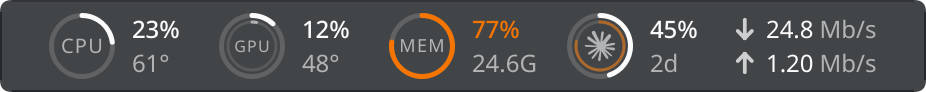
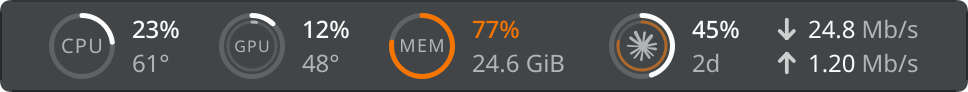
memory: show memory in use to one decimal with its unit
The panel gave memory in use as three figures and a bare unit letter,
"9.60G", which read as clutter next to the popups' "GiB". It now shows one
decimal and the unit in full, "9.6 GiB" or "512.0 MiB", still binary and
still in the unit the popups use. The unit steps up from 999.95 of the one
shown, so no value takes a fourth digit before the point. The memory line
keeps room for the widest value in every unit, so the panel does not change
width as memory moves. Tooltips and popups keep their own formats.

Changed region(s): [[0.0302, 0.1304, 0.9676, 0.8696], [0.7862, 0.5652, 0.9676, 0.8043]]

diff --git a/tests/qml/tst_cells.qml b/tests/qml/tst_cells.qml
@@ -752,10 +752,10 @@ Item {
                 { tag: "cpu no reading", item: "cpu", set: { cpuUsage: NaN, cpuTemperature: NaN }, lines: ["–", "–"], tones: ["text", "dim"] },
                 { tag: "fahrenheit", item: "cpu", set: { fahrenheit: true, cpuTemperature: 38 }, lines: [percent(23), degrees(100)], tones: ["text", "dim"] },
                 { tag: "fahrenheit hot", item: "cpu", set: { fahrenheit: true, cpuTemperature: 95 }, lines: [percent(23), degrees(203)], tones: ["text", "negative"] },
-                { tag: "memory", item: "memory", lines: [percent(42), decimal(13.4) + "G"], tones: ["text", "dim"] },
-                { tag: "memory 77 %", item: "memory", set: { memoryPercent: 77 }, lines: [percent(77), decimal(13.4) + "G"], tones: ["neutral", "dim"] },
-                { tag: "memory in MiB", item: "memory", set: { memoryUsed: 900 * mib, memoryPercent: 3 }, lines: [percent(3), digits(900) + "M"], tones: ["text", "dim"] },
-                { tag: "memory in three figures", item: "memory", set: { memoryUsed: 9.6 * gib, memoryPercent: 60 }, lines: [percent(60), fixed(9.6, 2) + "G"],
+                { tag: "memory", item: "memory", lines: [percent(42), decimal(13.4) + " GiB"], tones: ["text", "dim"] },
+                { tag: "memory 77 %", item: "memory", set: { memoryPercent: 77 }, lines: [percent(77), decimal(13.4) + " GiB"], tones: ["neutral", "dim"] },
+                { tag: "memory in MiB", item: "memory", set: { memoryUsed: 900 * mib, memoryPercent: 3 }, lines: [percent(3), decimal(900) + " MiB"], tones: ["text", "dim"] },
+                { tag: "memory to one decimal", item: "memory", set: { memoryUsed: 9.64 * gib, memoryPercent: 60 }, lines: [percent(60), decimal(9.6) + " GiB"],
                   tones: ["text", "dim"] },
                 { tag: "dual gpu", item: "gpu", lines: [percent(12), degrees(48)], tones: ["text", "dim"], absent: degrees(41) },
                 { tag: "dual gpu hot", item: "gpu", outer: { usage: 90, temperature: 92 }, lines: [percent(90), degrees(92)], tones: ["negative", "negative"] },
@@ -784,7 +784,7 @@ Item {
 
         // The ring's own reading, heavier and in the ring's colour, over a
         // dimmer one in its own heat colour. A countdown keeps to its largest
-        // unit, and memory to three figures.
+        // unit, and memory to one decimal and its unit.
         function test_lines(data) {
             apply(data.item, data);
             const c = cell(data.item);
@@ -806,7 +806,7 @@ Item {
         function test_panelShowsItsHeldReadings_data() {
             return [
                 { tag: "cpu", item: "cpu", ring: 40, texts: [percent(40), degrees(70)], words: "Usage " + percent(40) },
-                { tag: "memory", item: "memory", ring: 60, texts: [percent(60), decimal(20.0) + "G"], words: percent(60) },
+                { tag: "memory", item: "memory", ring: 60, texts: [percent(60), decimal(20.0) + " GiB"], words: percent(60) },
                 { tag: "gpu", item: "gpu", ring: 55, inner: 7, texts: [percent(55), degrees(66)], words: "Usage " + percent(55) },
                 { tag: "network", item: "network", texts: [decimal(64.0), decimal(16.0)], words: "Down " + decimal(64.0) + " Mb/s" },
                 { tag: "disk", item: "disk", texts: [decimal(50.0), fixed(1, 2)], words: "Read " + decimal(50.0) + " MiB/s" }
@@ -870,7 +870,7 @@ Item {
         function test_thinPanelIsOneLine_data() {
             return [
                 { tag: "cpu", item: "cpu", texts: [percent(23), "·", degrees(61)] },
-                { tag: "memory", item: "memory", texts: [percent(42), "·", decimal(13.4) + "G"] },
+                { tag: "memory", item: "memory", texts: [percent(42), "·", decimal(13.4) + " GiB"] },
                 { tag: "claude", item: "claude", texts: [percent(52), "·", digits(2) + "d"] },
                 { tag: "claude last day", item: "claude", week: [52, 5 * 3600 + 12 * 60], texts: [percent(52), "·", digits(5) + "h"] },
                 { tag: "gpu asleep", item: "gpu", asleep: true, texts: ["off"] }
@@ -912,7 +912,7 @@ Item {
         }
 
         // A countdown is plain text in the face of the other second lines,
-        // its largest unit alone, as large as its digits, as in "11.2G" or
+        // its largest unit alone, as large as its digits, as in "11.2 GiB" or
         // "61°", mirrored or not. Its room is that of two of the widest
         // digits and the widest unit, whatever it reads.
         function test_countdownText(data) {
@@ -944,12 +944,12 @@ Item {
                       { set: { cpuUsage: NaN, cpuTemperature: NaN }, shows: ["–"] },
                       { set: { fahrenheit: true, cpuUsage: 100, cpuTemperature: 149 }, shows: ["100%", "300°"] },
                       { set: { fahrenheit: false, cpuUsage: 11, cpuTemperature: 48 }, shows: ["11%", "48°"] }],
-                memory: [{ set: { memoryPercent: 0, memoryUsed: 0 }, shows: ["0%", "0B"] },
-                         { set: { memoryPercent: 1, memoryUsed: 999 * mib }, shows: ["1%", "999M"] },
-                         { set: { memoryPercent: 6, memoryUsed: 1000 * mib }, shows: ["6%", "0.98G"] },
-                         { set: { memoryPercent: 60, memoryUsed: 9.6 * gib }, shows: ["60%", "9.60G"] },
-                         { set: { memoryPercent: 88, memoryUsed: 13.4 * gib }, shows: ["88%", "13.4G"] },
-                         { set: { memoryPercent: 100, memoryUsed: 1023 * gib }, shows: ["100%", "1.00T"] },
+                memory: [{ set: { memoryPercent: 0, memoryUsed: 0 }, shows: ["0%", "0 B"] },
+                         { set: { memoryPercent: 1, memoryUsed: 999 * mib }, shows: ["1%", "999.0 MiB"] },
+                         { set: { memoryPercent: 6, memoryUsed: 1000 * mib }, shows: ["6%", "1.0 GiB"] },
+                         { set: { memoryPercent: 60, memoryUsed: 9.6 * gib }, shows: ["60%", "9.6 GiB"] },
+                         { set: { memoryPercent: 88, memoryUsed: 13.4 * gib }, shows: ["88%", "13.4 GiB"] },
+                         { set: { memoryPercent: 100, memoryUsed: 1023 * gib }, shows: ["100%", "1.0 TiB"] },
                          { set: { memoryPercent: NaN, memoryUsed: NaN }, shows: ["–"] }],
                 gpu: [{ outer: { usage: 0, temperature: 9 }, shows: ["0%", "9°"] },
                       { outer: { usage: 100, temperature: 105 }, shows: ["100%", "105°"] },
@@ -994,7 +994,7 @@ Item {
 
         // A cell keeps one width whatever its readings: each line takes the
         // room of the widest text it can show, "100%" for every ring and
-        // "off" too for the GPU, three figures for memory and the rates, and
+        // "off" too for the GPU, one decimal and a unit for memory, three figures for the rates, and
         // two for a countdown, so no text in it moves or overruns its box
         // from 0 to 100 %, 9 to 105 degrees, an idle link to 1023 GiB/s, a
         // GPU asleep or handing over, or a countdown from 6d to its reset.
@@ -1018,7 +1018,7 @@ Item {
                 const percent = root.percent(100);
                 const firsts = data.item === "gpu" ? [percent, "off"] : [percent];
                 const seconds = data.item === "cpu" || data.item === "gpu" ? [root.degrees(100)]
-                              : data.item === "memory" ? [root.decimal(10) + "M", root.digits(100) + "M"]
+                              : data.item === "memory" ? ["B", "KiB", "MiB", "GiB", "TiB", "PiB"].map(unit => root.decimal(100) + " " + unit)
                               : ["d", "h", "m"].map(unit => root.digits(10) + unit);
                 compare(readout.rooms[0], face.room(face.strong, firsts), "the first line keeps room for " + firsts.join(", "));
                 verify(readout.rooms[1] >= face.room(face.plain, seconds), "the second line keeps room for " + seconds.join(", "));

diff --git a/tests/qml/tst_strip.qml b/tests/qml/tst_strip.qml
@@ -283,24 +283,24 @@ Item {
                     monitor.gpuOuter.usage = 0; monitor.gpuOuter.temperature = 9;
                     monitor.networkDown = 0; monitor.networkUp = 0; monitor.diskRead = 0; monitor.diskWrite = 0;
                     setWeeks([0, 6 * 86400 + 23 * 3600], [0, 6 * 86400 + 20 * 3600]);
-                }, shows: ["0%", "9°", "0B", "0.00", "6d"] },
+                }, shows: ["0%", "9°", "0 B", "0.00", "6d"] },
                 { what: "all at their most", change: () => {
                     monitor.cpuUsage = 100; monitor.cpuTemperature = 105; monitor.memoryUsed = 1023 * gib; monitor.memoryPercent = 100;
                     monitor.gpuOuter.usage = 100; monitor.gpuOuter.temperature = 105;
                     monitor.networkDown = 1023 * gib; monitor.networkUp = 1023 * gib; monitor.diskRead = 1023 * gib; monitor.diskWrite = 1023 * gib;
                     setWeeks([100, 59 * 60], [100, 5 * 60]);
-                }, shows: ["100%", "105°", "1.00T", "TiB/s", "59m", "5m"] },
+                }, shows: ["100%", "105°", "1.0 TiB", "TiB/s", "59m", "5m"] },
                 { what: "302 °F", change: () => { monitor.fahrenheit = true; monitor.cpuTemperature = 149.9; }, shows: ["302°"] },
                 { what: "unit edges", change: () => {
                     monitor.fahrenheit = false; monitor.cpuTemperature = 61; monitor.memoryUsed = 1000 * mib; monitor.memoryPercent = 6;
                     monitor.networkDown = 999.4e3 / 8; monitor.networkUp = 999.5e3 / 8; monitor.diskRead = 999.4 * 1024; monitor.diskWrite = 1023 * 1024;
                     setWeeks([88, 23 * 3600 + 59 * 60], [41, 86400 + 7 * 3600]);
-                }, shows: ["0.98G", "999", "1.00", "23h", "1d"] },
+                }, shows: ["1.0 GiB", "999", "1.00", "23h", "1d"] },
                 { what: "usual", change: () => {
                     monitor.cpuUsage = 12; monitor.memoryUsed = 9.6 * gib; monitor.memoryPercent = 60;
                     monitor.gpuOuter.usage = 4; monitor.gpuOuter.temperature = 46;
                     monitor.networkDown = 8.4e6 / 8; monitor.networkUp = 100e3 / 8; monitor.diskRead = 4.1 * 1024; monitor.diskWrite = 353 * 1024;
-                }, shows: ["12%", "9.60G", "4%", "4.10", "353"] },
+                }, shows: ["12%", "9.6 GiB", "4%", "4.10", "353"] },
                 { what: "the discrete GPU asleep", change: () => { monitor.gpuOuter.phase = "asleep"; }, shows: ["3%", "41°"] },
                 { what: "both GPUs asleep", change: () => { monitor.gpuInner.phase = "asleep"; }, shows: ["off"] },
                 { what: "the GPUs awake", change: () => { monitor.gpuOuter.phase = "live"; monitor.gpuInner.phase = "live"; }, shows: ["4%", "46°"] },
@@ -823,7 +823,7 @@ Item {
                 });
             }
             compare([line(0, "first").text, line(0, "second").text], ["23%", "61°"]);
-            compare([line(2, "first").text, line(2, "second").text], ["42%", "13.4G"]);
+            compare([line(2, "first").text, line(2, "second").text], ["42%", "13.4 GiB"]);
             const texts = visibleTexts(strip);
             verify(!texts.includes("%") && !texts.includes("°"), JSON.stringify(texts));
         }

diff --git a/tests/qml/tst_format.qml b/tests/qml/tst_format.qml
@@ -240,25 +240,30 @@ TestCase {
         verify(Format.panelRateUnits(data.bits).includes(result.unit), result.unit + " is one of the units the panel keeps room for");
     }
 
-    // Memory for the panel steps its unit as the rates do, in three figures.
+    // Memory for the panel is one decimal, its unit stepping at 999.95.
     function test_panelBytes_data() {
         const mib = 1024 * 1024;
         const gib = 1024 * mib;
         return [
             { tag: "bytes stay whole", v: 500, value: "500", unit: "B" },
-            { tag: "353 MiB", v: 353 * mib, value: "353", unit: "MiB" },
-            { tag: "999.4 MiB", v: 999.4 * mib, value: "999", unit: "MiB" },
-            { tag: "1000 MiB", v: 1000 * mib, value: "0.98", unit: "GiB" },
-            { tag: "1023 MiB", v: 1023 * mib, value: "1.00", unit: "GiB" },
-            { tag: "9.6 GiB", v: 9.6 * gib, value: "9.60", unit: "GiB" },
-            { tag: "13.4 GiB", v: 13.4 * gib, value: "13.4", unit: "GiB" },
-            { tag: "128 GiB", v: 128 * gib, value: "128", unit: "GiB" },
+            { tag: "512 KiB", v: 512 * 1024, value: "512.0", unit: "KiB" },
+            { tag: "353 MiB", v: 353 * mib, value: "353.0", unit: "MiB" },
+            { tag: "512 MiB", v: 512 * mib, value: "512.0", unit: "MiB" },
+            { tag: "999.9 MiB", v: 999.9 * mib, value: "999.9", unit: "MiB" },
+            { tag: "999.96 MiB", v: 999.96 * mib, value: "1.0", unit: "GiB" },
+            { tag: "1023 MiB", v: 1023 * mib, value: "1.0", unit: "GiB" },
+            { tag: "9.6 GiB", v: 9.6 * gib, value: "9.6", unit: "GiB" },
+            { tag: "9.64 GiB", v: 9.64 * gib, value: "9.6", unit: "GiB" },
+            { tag: "24.6 GiB", v: 24.6 * gib, value: "24.6", unit: "GiB" },
+            { tag: "128 GiB", v: 128 * gib, value: "128.0", unit: "GiB" },
+            { tag: "1023 GiB", v: 1023 * gib, value: "1.0", unit: "TiB" },
             { tag: "no reading", v: NaN, value: "–", unit: "" }
         ];
     }
     function test_panelBytes(data) {
         const result = Format.panelBytes(data.v);
         compare([result.value, result.unit], [local(data.value), data.unit]);
+        verify(Format.panelByteUnits().includes(result.unit) || result.unit === "", result.unit + " is one of the units the panel keeps room for");
     }
 
     function test_frequency_data() {

diff --git a/package/contents/ui/Words.qml b/package/contents/ui/Words.qml
@@ -80,7 +80,7 @@ QtObject {
         case "memory": {
             const used = Format.panelBytes(monitor.panel.memoryUsed);
             return { first: percent(monitor.panel.memoryPercent), level: Format.level(monitor.panel.memoryPercent),
-                     second: used.value + used.unit.charAt(0) };
+                     second: used.unit === "" ? used.value : used.value + " " + used.unit };
         }
         }
         const entry = monitor.usage.entry(item);
@@ -106,11 +106,10 @@ QtObject {
     // them whatever they read.
     function widest(item) {
         const percent = i18nc("@info:status a percentage", "%1%", Format.percent(100));
-        // Memory in three figures and a unit's letter, "13.4G" or "353M"; a
+        // Memory to one decimal and its unit, "13.4 GiB" or "353.0 MiB"; a
         // countdown in two figures and its unit, "23h".
-        const letters = ["B", "K", "M", "G", "T", "P"];
         const second = item === "cpu" || item === "gpu" ? [Format.whole(100) + "°"]
-                     : item === "memory" ? letters.map(unit => Format.decimal(10, 1) + unit).concat(letters.map(unit => Format.whole(100) + unit))
+                     : item === "memory" ? Format.panelByteUnits().map(unit => Format.decimal(100, 1) + " " + unit)
                      : timeParts(Format.whole(10), Format.whole(10), Format.whole(10)).map(part => part.value + part.unit);
         return {
             first: item === "gpu" ? [percent, i18nc("@info:status the GPU is powered down", "off")] : [percent],

diff --git a/tests/qml/tst_usage.qml b/tests/qml/tst_usage.qml
@@ -3319,10 +3319,10 @@ Item {
                   first: "off", off: true, second: "" },
                 { tag: "both gpus asleep", item: "gpu", outer: { phase: "asleep" }, inner: { phase: "asleep" },
                   first: "off", off: true, second: "" },
-                { tag: "memory", item: "memory", first: "42%", second: "13.4G" },
-                { tag: "memory in MiB", item: "memory", set: { memoryUsed: 900 * 1048576 }, first: "3%", second: "900M" },
+                { tag: "memory", item: "memory", first: "42%", second: "13.4 GiB" },
+                { tag: "memory in MiB", item: "memory", set: { memoryUsed: 900 * 1048576 }, first: "3%", second: "900.0 MiB" },
                 { tag: "memory full", item: "memory", set: { memoryUsed: 29 * 1073741824 },
-                  first: "91%", level: 2, second: "29.0G" },
+                  first: "91%", level: 2, second: "29.0 GiB" },
                 { tag: "memory unread", item: "memory", set: { memoryUsed: NaN }, first: "–", second: "–" },
                 { tag: "claude", item: "claude", first: "52%", second: "2d" },
                 { tag: "codex", item: "codex", first: "24%", second: "5d" },

diff --git a/package/contents/ui/code/format.js b/package/contents/ui/code/format.js
@@ -165,18 +165,25 @@ function panelRate(bytesPerSecond, bits) {
     return { value: significant(v), unit: units[i] };
 }
 
-// Bytes for the panel as panelRate() steps them: "9.95 GiB", "13.4 GiB".
+// The units panelBytes() steps through.
+function panelByteUnits() {
+    return BYTE_UNITS.slice();
+}
+
+// Bytes for the panel to one decimal, "9.6 GiB", "512.0 MiB". The unit steps
+// up from 999.95 of the one shown, so no value takes a fourth digit before
+// the point: 1000 MiB reads "1.0 GiB". Bytes stay whole.
 function panelBytes(v) {
     if (!usable(v)) {
         return { value: DASH, unit: "" };
     }
     let i = 0;
     let scaled = v;
-    while (i < BYTE_UNITS.length - 1 && Math.abs(scaled) >= 999.5) {
+    while (i < BYTE_UNITS.length - 1 && Math.abs(scaled) >= 999.95) {
         scaled /= 1024;
         ++i;
     }
-    return { value: i === 0 ? whole(scaled) : significant(scaled), unit: BYTE_UNITS[i] };
+    return { value: i === 0 ? whole(scaled) : decimal(scaled, 1), unit: BYTE_UNITS[i] };
 }
 
 function frequency(megahertz) {

diff --git a/CHANGELOG.md b/CHANGELOG.md
@@ -114,8 +114,9 @@ follows [Semantic Versioning](https://semver.org/).
 - Across a horizontal panel, rates always show three figures, from kb/s or
   KiB/s up, such as "8.40 Mb/s", "62.1 kb/s", or "0.00 KiB/s" when idle,
   and move to the next unit before a fourth: 1023 KiB/s reads "1.00 MiB/s".
-  A rate's unit sits closer to its number. Memory in use shows three
-  figures too, such as "9.60G". Tooltips and popups keep their own formats.
+  A rate's unit sits closer to its number. Memory in use shows one decimal
+  and its unit, such as "9.6 GiB" or "512.0 MiB", where it showed "9.60G".
+  Tooltips and popups keep their own formats.
 - Panel items sit a little further apart, half as much again as the gap
   between a ring and its readings, so each item's readings read as its own
   ring's.

diff --git a/README.md b/README.md
@@ -19,8 +19,8 @@ and Codex usage limits if you want them.
 Each item is a ring with its name inside and its readings beside it, or a
 pair of rates. Each item keeps room for its widest readings, so the panel
 stays the same width as the numbers change. Across a horizontal panel,
-rates show three figures, such as 8.40 Mb/s or 353 KiB/s, and so does the
-memory in use, such as 9.60G.
+rates show three figures, such as 8.40 Mb/s or 353 KiB/s, and the memory in
+use shows one decimal and its unit, such as 9.6 GiB.
 
 Click an item for its popup: history graphs, per-thread load, top
 processes, VRAM, clocks, power, swap, memory pressure and disk activity.
